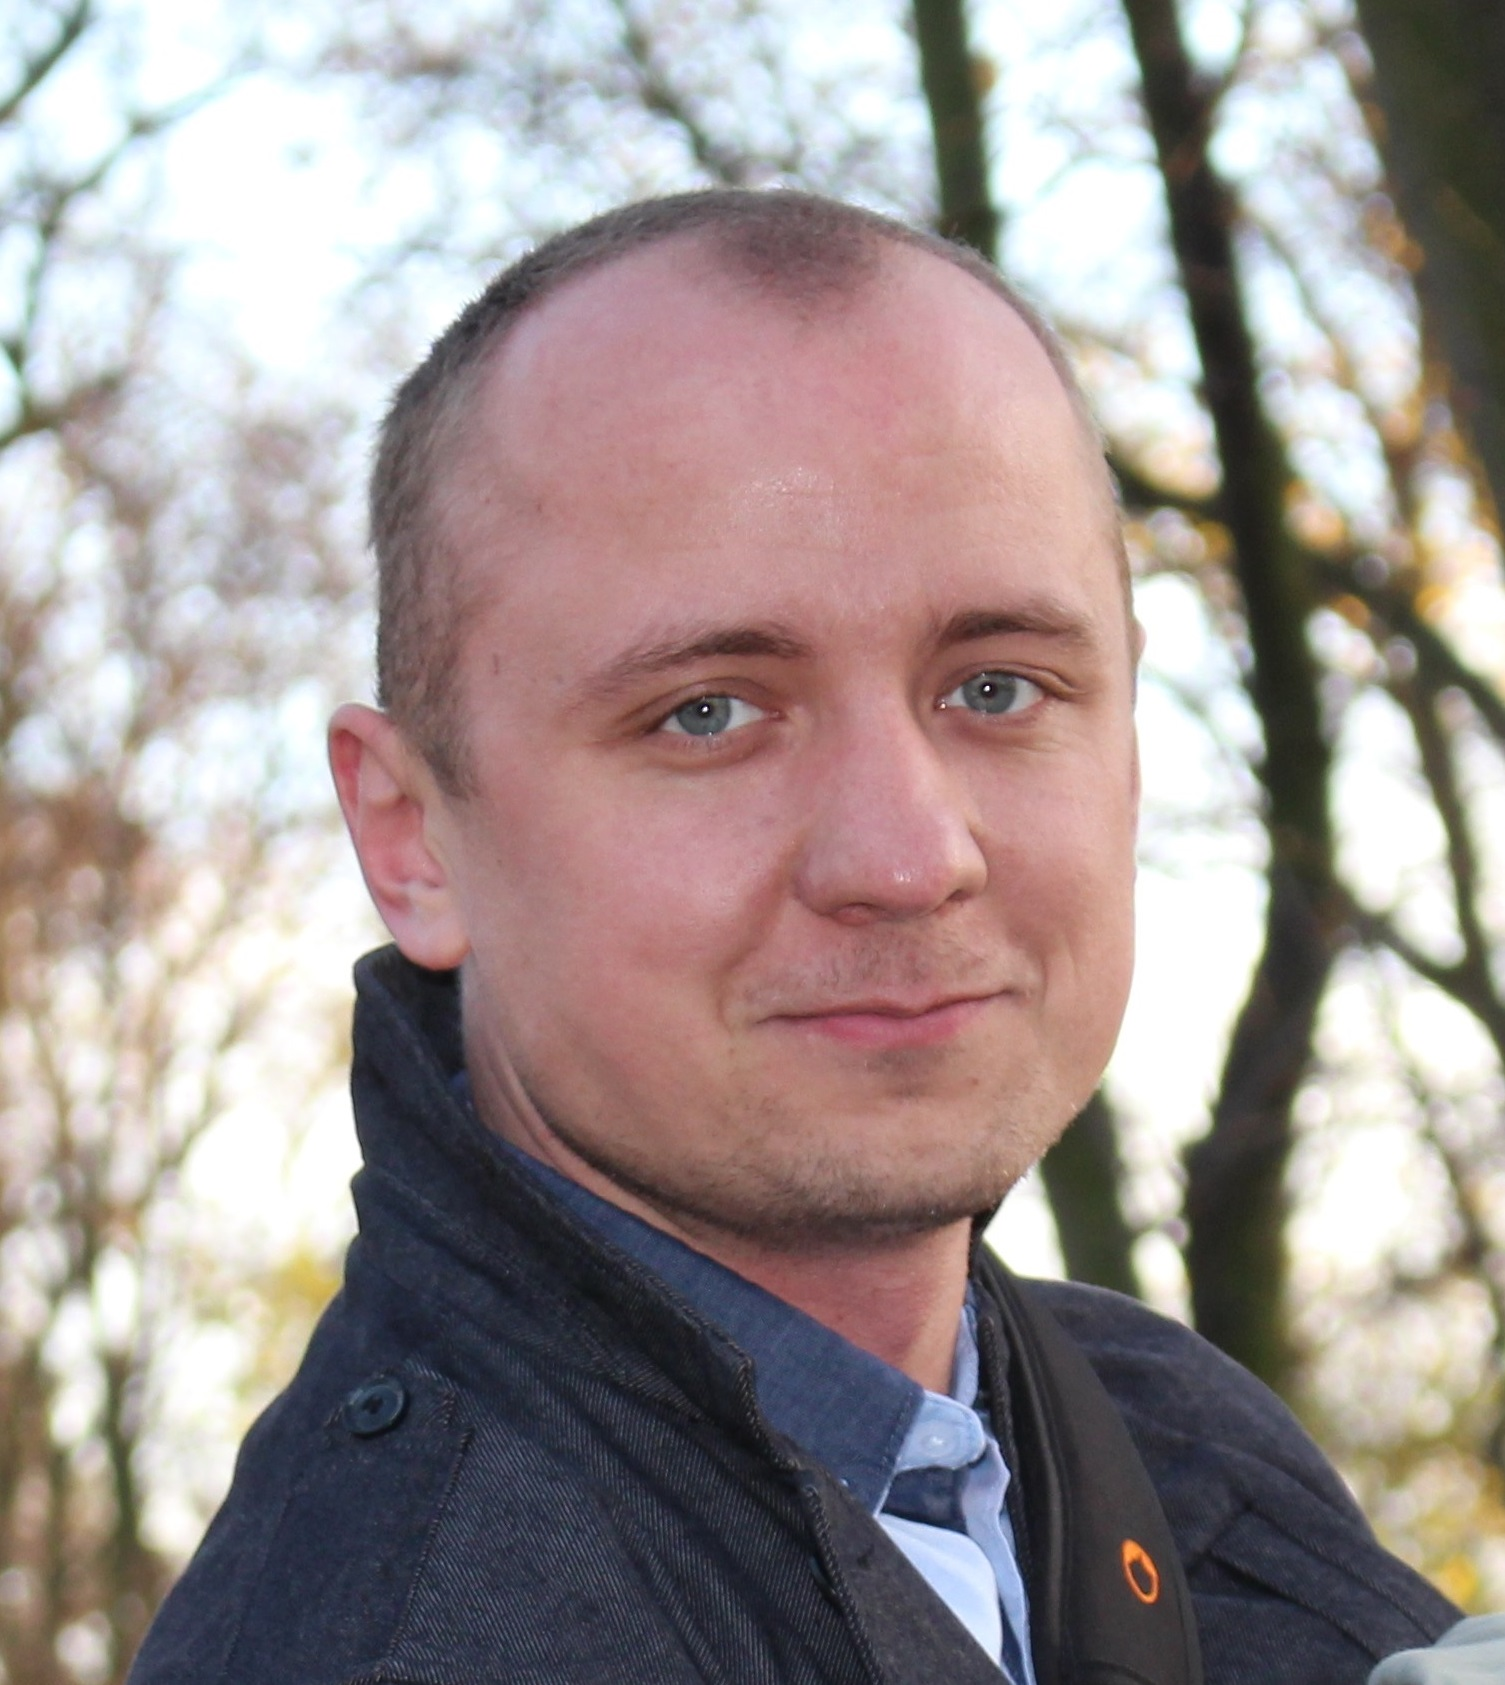
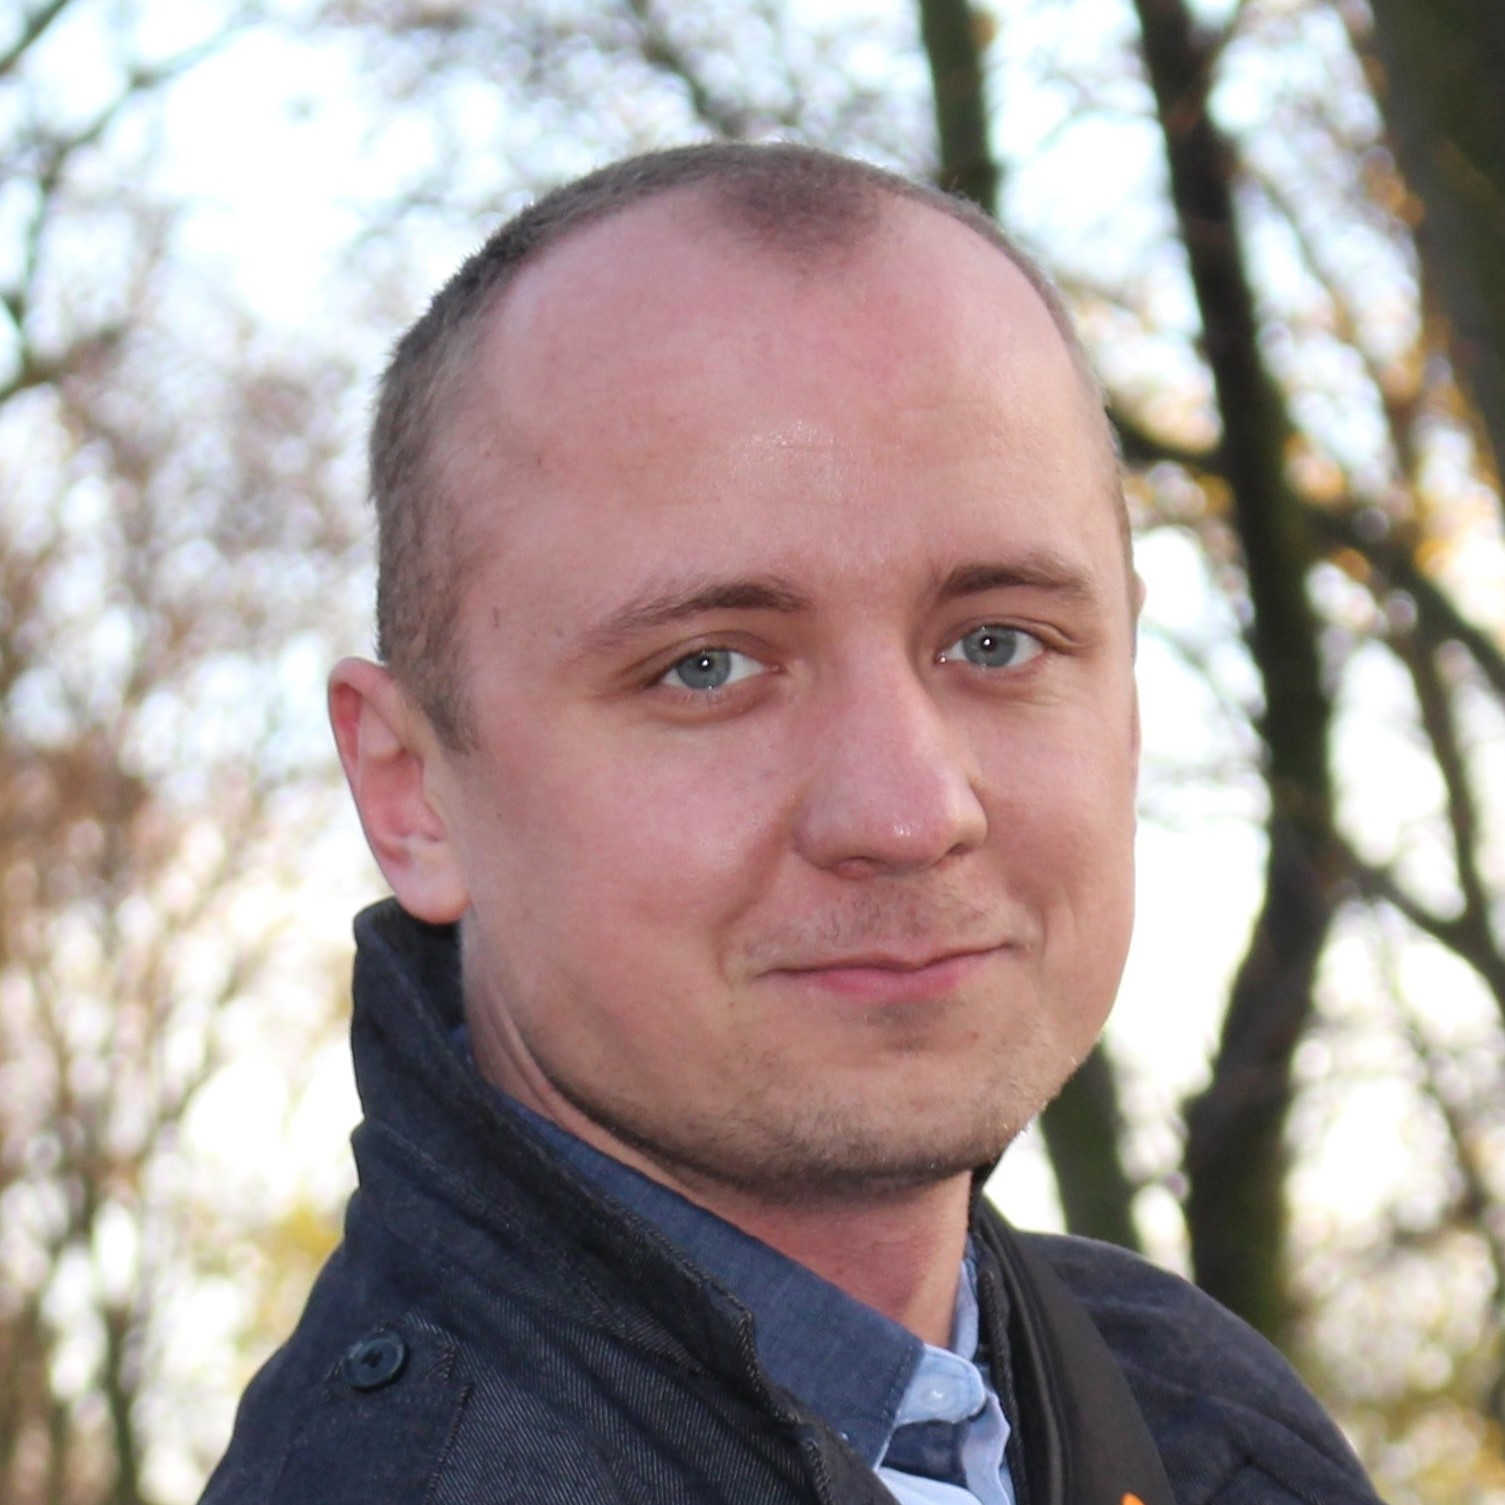
image fix

diff --git a/pages/_document.tsx b/pages/_document.tsx
@@ -1,15 +1,17 @@
 import { Html, Head, Main, NextScript } from 'next/document'
 
 export default function Document() {
-  return (
-    <Html>
-      <Head>
-        <link href="https://fonts.googleapis.com/css2?family=Source+Sans+Pro:300,400&display=swap" rel="stylesheet" />
-      </Head>
-      <body>
-        <Main />
-        <NextScript />
-      </body>
-    </Html>
-  )
+    return (
+        <Html>
+            <Head>
+                <link rel="preconnect" href="https://fonts.googleapis.com" />
+                <link rel="preconnect" href="https://fonts.gstatic.com" />
+                <link href="https://fonts.googleapis.com/css2?family=Source+Sans+Pro:wght@300;400&display=swap" rel="stylesheet" />
+            </Head>
+            <body>
+                <Main />
+                <NextScript />
+            </body>
+        </Html>
+    )
 }

diff --git a/pages/index.tsx b/pages/index.tsx
@@ -1,7 +1,6 @@
 import type { NextPage } from 'next'
 import Head from 'next/head'
-import Image from 'next/image'
-import Link from 'next/link'
+import Image from 'next/future/image'
 import Banner from '../components/Banner'
 import { Layout } from '../components/Layout'
 import ja from '../public/images/ja.jpg'
@@ -43,7 +42,7 @@ const Home: NextPage = () => {
               </ul>
             </div>
             <span className="image">
-              <Image src={ja} alt="" layout={'fill'} objectFit={'cover'} />
+              <Image src={ja} alt="" style={{ maxWidth: '100%',maxHeight: '100%' }} sizes='100%' placeholder='blur'/>
             </span>
           </div>
         </section>

diff --git a/styles/main.scss b/styles/main.scss
@@ -3,7 +3,7 @@
 @import 'libs/mixins';
 @import 'libs/skel';
 @import '../public/css/font-awesome.min.css';
-@import url('https://fonts.googleapis.com/css?family=Source+Sans+Pro:300,400');
+
 html {
 	scroll-behavior: smooth;
 }

diff --git a/styles/components/_spotlight.scss b/styles/components/_spotlight.scss
@@ -33,6 +33,7 @@
 			border: solid 1px;
 			width: 16em;
 			height: 16em;
+			overflow-y: hidden;
 
 			img {
 				display: block;
